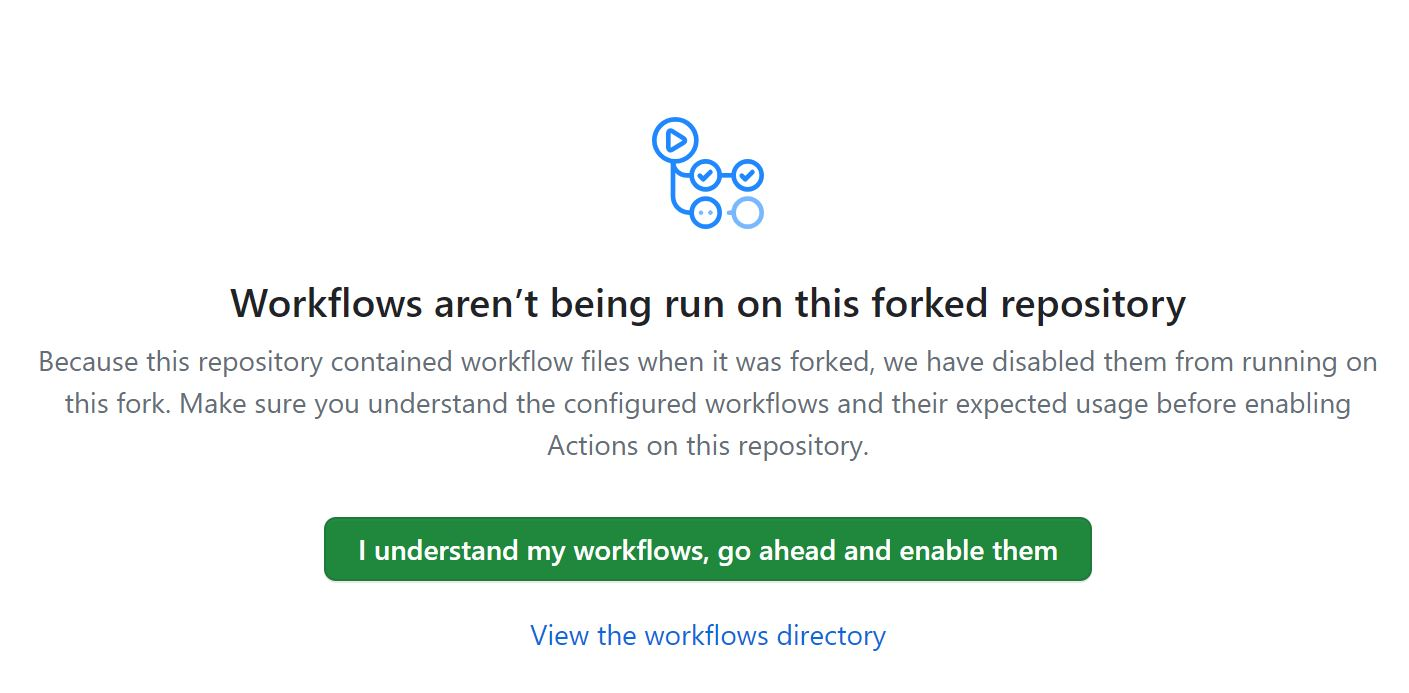
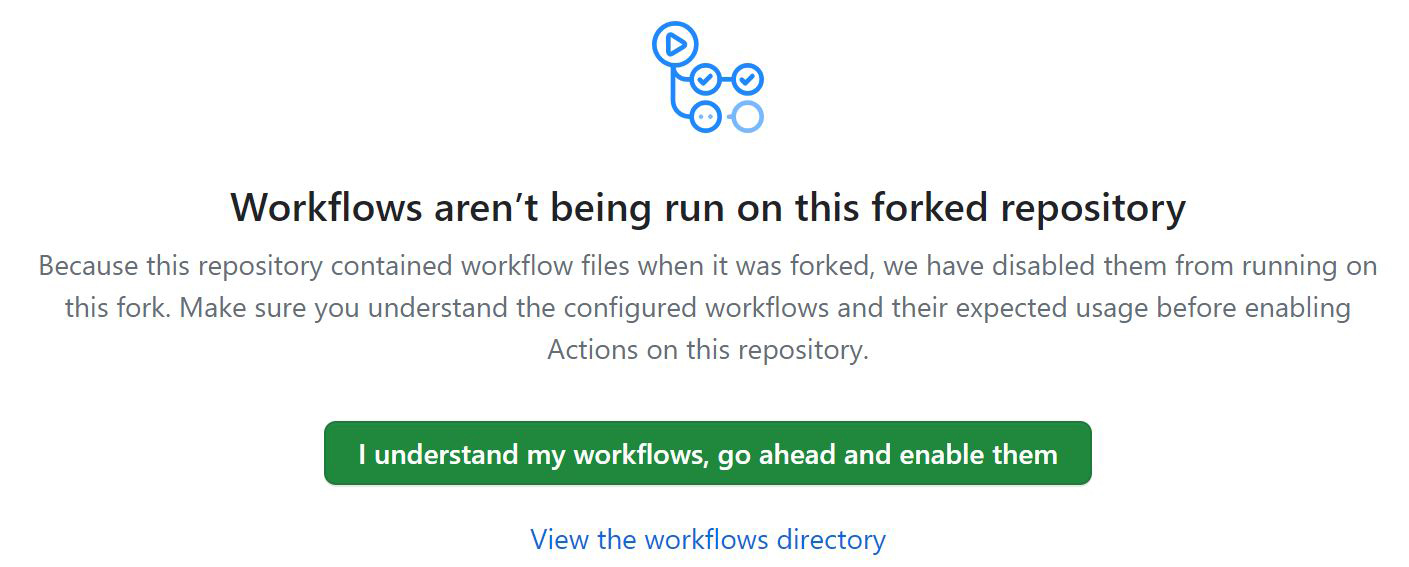
update image

diff --git a/docs/sampleproject.md b/docs/sampleproject.md
@@ -47,7 +47,7 @@ To run the demo you need to:
 4. You can now run a workflow to create an attestation of the last version committed and pushed to Git. This attestation represents the 'source of truth' regarding the project's source code. Once you have created and stored this attestation it is quite difficult for a potential adversary to tamper with the code anywhere down the pipeline. In the demo project page, go to Actions.  
 Click ‘I understand my workflows, go ahead and enable them’.
 
-   <img src='../../../img/ci/understand_workflows.jpg' alt='I understand my workflows' width='90%'/>
+   <img src='../../../img/ci/understand_workflows.jpg' alt='I understand my workflows' width='70%'/>
 
 This would lead you to your 'Actions' tab:   
 
